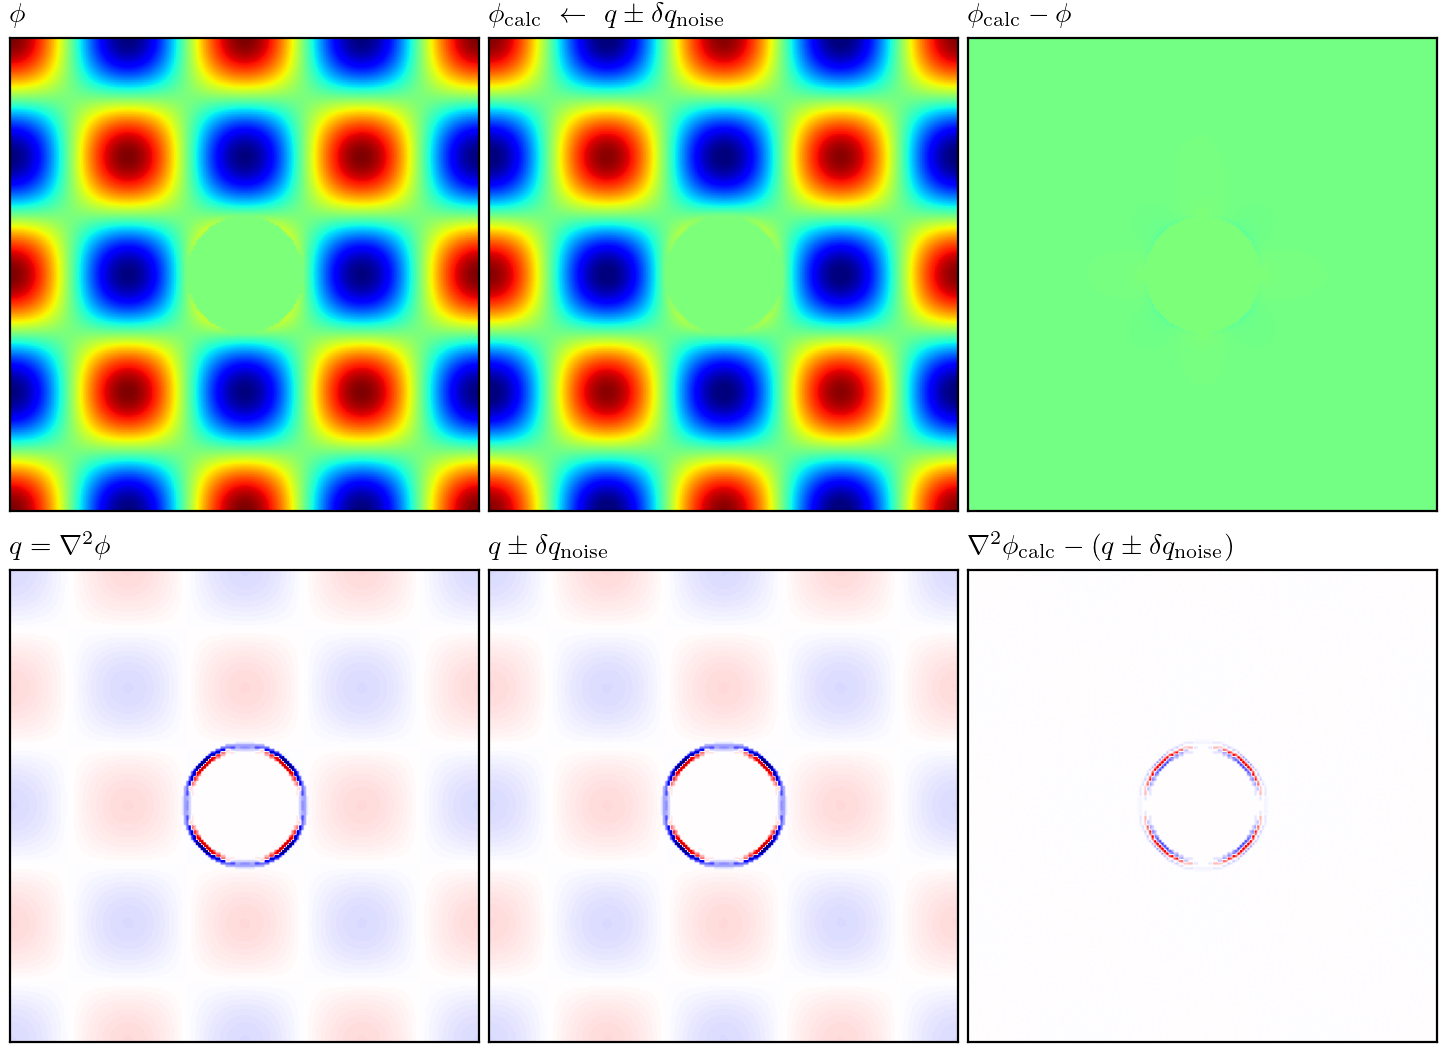
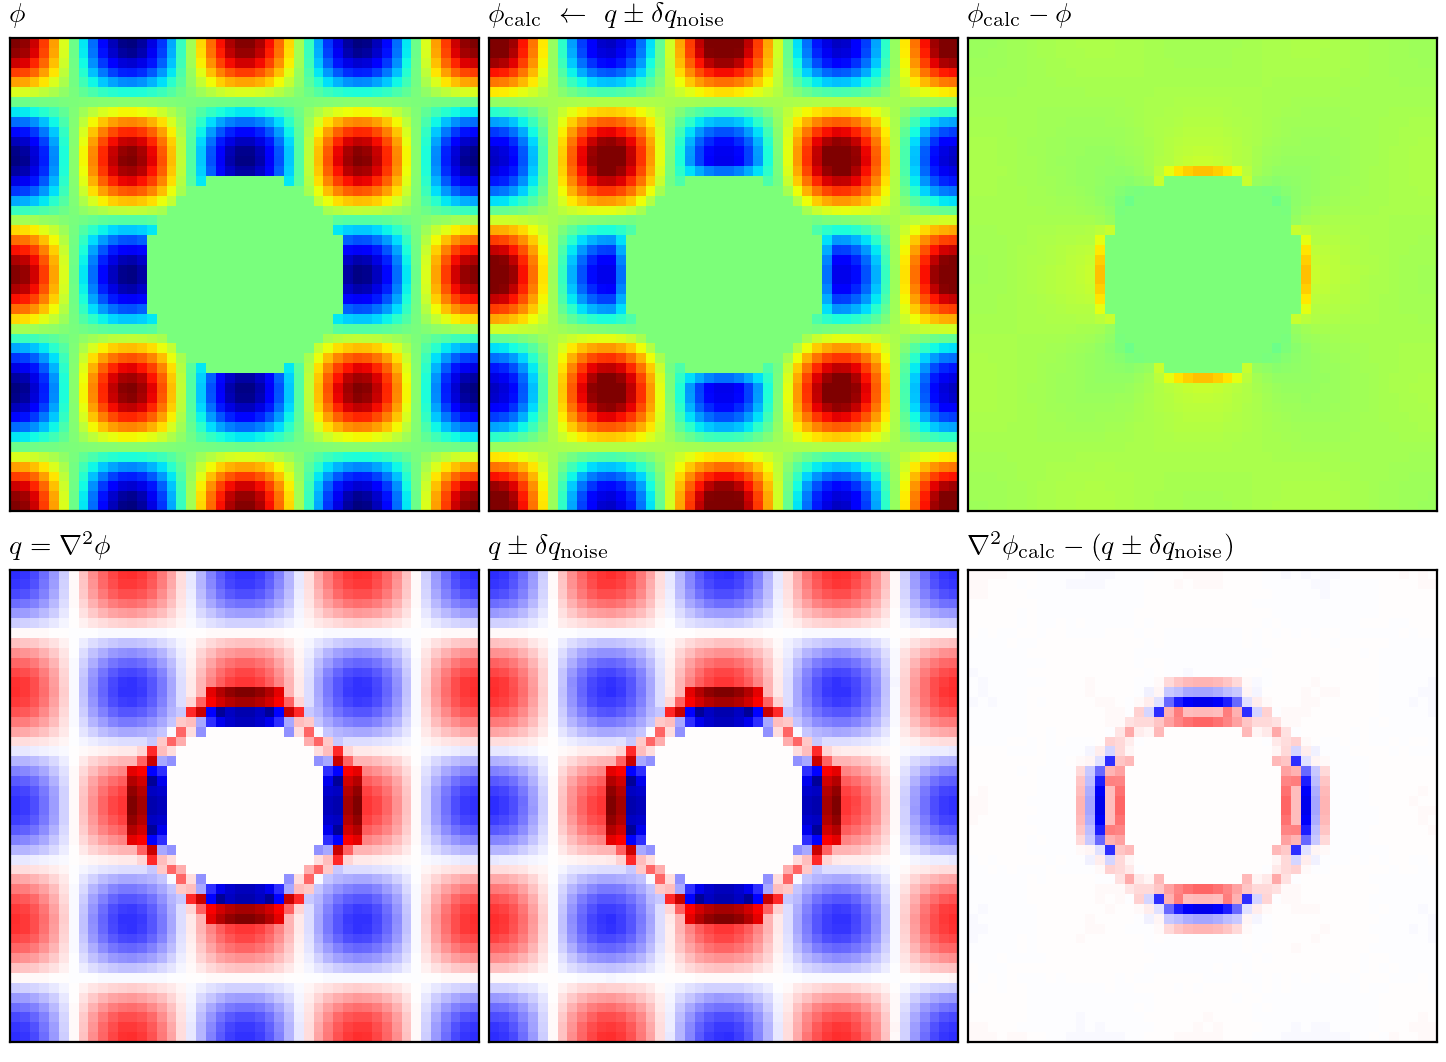
modified:   docs/imgs/poisson_eq_example.png 	modified:   docs/imgs/umap_example.png 	modified:   examples/test_poisson_eq.py

diff --git a/examples/test_poisson_eq.py b/examples/test_poisson_eq.py
@@ -39,12 +39,12 @@ def show_umap(umap):
 	
 	############################################################
 	ax.plot(*zip(*vals), ls="", c="k", marker=".", markersize=1, label=r"{\tt 0}")
-	ax.plot(*zip(*xlfs), ls="", c="k", marker=0,   markersize=3, label=r"{\tt XLF}")
-	ax.plot(*zip(*xrts), ls="", c="k", marker=1,   markersize=3, label=r"{\tt XRT}")
-	ax.plot(*zip(*xcns), ls="", c="k", marker="_", markersize=6, label=r"{\tt XCN}")
-	ax.plot(*zip(*ylfs), ls="", c="k", marker=3,   markersize=3, label=r"{\tt YLF}")
-	ax.plot(*zip(*yrts), ls="", c="k", marker=2,   markersize=3, label=r"{\tt YRT}")
-	ax.plot(*zip(*ycns), ls="", c="k", marker="|", markersize=6, label=r"{\tt YCN}")
+	ax.plot(*zip(*xlfs), ls="", c="k", marker=0,   markersize=1.5, label=r"{\tt XLF}")
+	ax.plot(*zip(*xrts), ls="", c="k", marker=1,   markersize=1.5, label=r"{\tt XRT}")
+	ax.plot(*zip(*xcns), ls="", c="k", marker="_", markersize=3, label=r"{\tt XCN}")
+	ax.plot(*zip(*ylfs), ls="", c="k", marker=3,   markersize=1.5, label=r"{\tt YLF}")
+	ax.plot(*zip(*yrts), ls="", c="k", marker=2,   markersize=1.5, label=r"{\tt YRT}")
+	ax.plot(*zip(*ycns), ls="", c="k", marker="|", markersize=3, label=r"{\tt YCN}")
 	
 	legend_conf = {
 		"bbox_to_anchor":(1,0,1,1),
@@ -91,7 +91,7 @@ def main(args):
 	ltp.load_backend("default")
 	
 	lx,ly = 2,2
-	nx,ny = 191,191
+	nx,ny = 47,47
 	
 	noise_lvl = 0.1
 	
@@ -112,7 +112,7 @@ def main(args):
 	_umap[:, :ny] |= ltp.DIFFop("YRT")
 	_umap[:,1:  ] |= ltp.DIFFop("YLF")
 	# set up central body
-	r = 0.5**2
+	r = 0.66**2
 	_umap[xs**2 + ys**2 < r**2] = 0
 	_vmap[_umap == 0] = 0
 	
